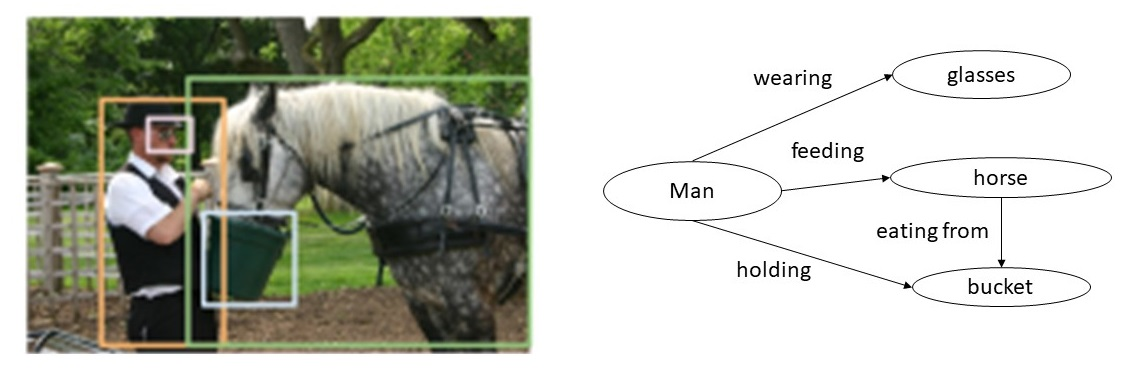
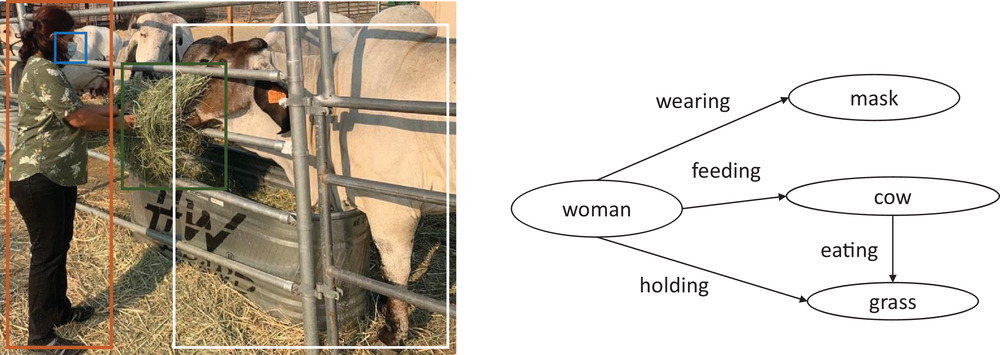
Added further readihg section to Chapter 1

diff --git a/What_is_a_Knowledge_Graph.html b/What_is_a_Knowledge_Graph.html
@@ -95,10 +95,11 @@ labels <i>L</i>, a knowledge graph is a subset of the cross
   friendship relationship is also known as a data graph. A directed
   graph in which the nodes are classes of objects (e.g., Book,
   Textbook, etc.), and the edges capture the <i>subclass</i>
-  relationship, is also known as a taxonomy.  In some data
-  models, <i>A</i> is referred to as <i>subject</i>, <i>B</i> is
-  referred to as <i>predicate</i>, and <i>C</i> is referred to as
-  object.
+  relationship, is also known as a taxonomy.  In some data models, the
+  source of an edge (e.g., <i>A</i>) is referred to as
+  the <i>subject</i>, the label on the edge (e.g., <i>B</i>) is
+  referred to as the <i>predicate</i>, and the target of the edge
+  (e.g., <i>C</i>) is referred to as the object.
 </p>
 
 
@@ -155,7 +156,22 @@ called <i>twinned administrative body</i> that lists the city of
 Ontario. As this relationship is symmetric, the Wikidata page for the
 city of Ontario automatically includes Winterthur. Thus, when Wikidata
 knowledge graph will be fully integrated into Wikipedia, such
-discrepancies will naturally disappear.</p>
+  discrepancies will naturally disappear.</p>
+
+<center>
+<table>
+  <tr>
+    <td align='center'>
+  <table>
+    <tr><td><img src='images/winterthur_graph.jpg' height='300'/></td></tr>
+ </table>
+    </td>
+  </tr>
+  <tr><td></td></tr>
+</table>
+</center>
+
+
 
 <p>
 Wikidata includes data from several independent providers, for
@@ -326,7 +342,7 @@ goal, including image classification and object detection.</p>
   <table>
     <tr><td><img src='images/vision.jpg' height='200'/></td></tr>
  </table>
-    </td>
+    </td>
   </tr>
   <tr><td></td></tr>
 </table>
@@ -336,8 +352,9 @@ goal, including image classification and object detection.</p>
 system should produce a knowledge graph shown to the right. The nodes in the
 knowledge graph are the outputs of an object detector.  Current research in
 computer vision focuses on developing techniques that can correctly
-infer the relationships between the objects, such as,
-man <i>holding</i> a bucket, and horse <i>feeding</i> from the bucket,
+  infer the relationships between the objects, such as,
+  such as a woman, a cow, and a mask, and relationships such as
+ <i>holding</i>, <i>feeding</i>, 
 etc. The sample knowledge graph is shown to the right.
 
 
@@ -471,9 +488,8 @@ have applications in all areas of computer science. Most notable uses
 of graphs in knowledge representation and databases have taken the
 form of data graphs, taxonomies and ontologies. Traditionally, such
 applications have been driven by a top down design.  As a knowledge
-graph is a directed labeled graphs, we are able to leverage theory,
-algorithms and implementations from more general graph-based systems
-in computer science.
+graph is a directed labeled graph, we are able to leverage graph theory
+algorithms and implementations.
 </p>
 
 <p>Recent surge in the use of knowledge graphs is driven because of
@@ -519,6 +535,28 @@ schema is not required at the outset.</p>
   these applications can certainly benefit from the classical work on
   the top down representation design techniques, and in fact, we
   envision that eventually the two will converge.   </p> 
+
+<h1>6. Further Reading</h1>
+
+Knowledge Graphs surged into popularity after Google started using
+them as part of its search
+engine <a href="https://blog.google/products/search/introducing-knowledge-graph-things-not/">[Singhal
+2012]</a>. The current chapter is based on an article that appeared in
+the AI
+Magazine <a href="https://onlinelibrary.wiley.com/doi/10.1002/aaai.12033">[Chaudhri
+et. al. 2022]</a>.  A recent survey covers how knowledge graphs are
+being used in the
+industry <a href="https://dl.acm.org/doi/10.1145/3331166">[Noy
+et. al. 2022]</a>. A comprehensive overview of knowledge graphs has
+been jointly written by several working on this
+topic <a href="https://arxiv.org/abs/2003.02320">[Hogan
+et. al. 2020]</a>.
+
+
+
+
+
+
 
 <h1>Exercises</h1>
 
